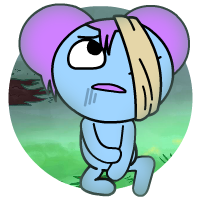
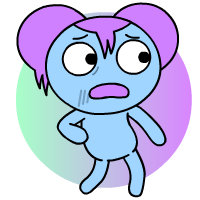
Rig v1

diff --git a/js/script.js b/js/script.js
@@ -146,7 +146,34 @@ document.addEventListener('DOMContentLoaded', function() {
         return animatedPibby;
     };
     
-    // Welcome Popup with Animated Pibby
+    // Disable scrolling and page interaction
+    function disablePage() {
+        // Create a div to block interactions
+        const blocker = document.createElement('div');
+        blocker.id = 'page-blocker';
+        blocker.style.position = 'fixed';
+        blocker.style.top = '0';
+        blocker.style.left = '0';
+        blocker.style.width = '100%';
+        blocker.style.height = '100%';
+        blocker.style.backgroundColor = 'rgba(0,0,0,0)'; // Transparent but blocks interaction
+        blocker.style.zIndex = '999';
+        document.body.appendChild(blocker);
+        
+        // Also disable scrolling
+        document.body.style.overflow = 'hidden';
+    }
+    
+    // Enable scrolling and page interaction
+    function enablePage() {
+        const blocker = document.getElementById('page-blocker');
+        if (blocker) {
+            blocker.parentNode.removeChild(blocker);
+        }
+        document.body.style.overflow = '';
+    }
+    
+    // Welcome Popup with Animated Pibby and Timer
     // Create the popup overlay
     const overlay = document.createElement('div');
     overlay.className = 'popup-overlay';
@@ -155,13 +182,34 @@ document.addEventListener('DOMContentLoaded', function() {
     const popup = document.createElement('div');
     popup.className = 'popup-container';
     
-    // Create the popup content
+    // Create the popup content with rules and original message
     popup.innerHTML = `
         <div class="popup-content">
             <h2>Welcome to Pibby Rig Pack!</h2>
             <p>Hello! Thank you for checking out the Pibby Rig. You may be wondering why there isn't a Trailer Pallet. This is mainly because the trailer colors were only a lighting choice for Pibbys world!</p>
+            
+            <div class="rules-container">
+                <h3>Terms of Use:</h3>
+                <ul class="rules-list">
+                    <li>Credit Kxley</li>
+                    <li>Don't claim as your own</li>
+                    <li>No re-releases</li>
+                    <li>No NSFW</li>
+                    <li>No fake leaks</li>
+                </ul>
+            </div>
+            
             <p>Thank you for reading and have fun with my rigs!</p>
-            <button id="popup-ok-btn" class="popup-button">OK</button>
+            
+            <div class="timer-container">
+                <p>Please read the rules carefully.</p>
+                <p>You can continue in: <span id="timer-countdown">30</span> seconds</p>
+                <div class="timer-bar-container">
+                    <div id="timer-bar" class="timer-bar"></div>
+                </div>
+            </div>
+            
+            <button id="popup-ok-btn" class="popup-button" disabled>OK</button>
         </div>
     `;
     
@@ -208,14 +256,42 @@ document.addEventListener('DOMContentLoaded', function() {
         }, 600);
     };
     
+    // Disable page interaction while popup is active
+    disablePage();
+    
     // Animate Pibby when popup appears
     setTimeout(() => {
         overlay.style.opacity = '1';
         animatePibbyFalling();
     }, 300);
     
+    // Timer functionality
+    const timerEl = document.getElementById('timer-countdown');
+    const timerBar = document.getElementById('timer-bar');
+    const okButton = document.getElementById('popup-ok-btn');
+    let timeLeft = 30;
+    
+    // Update timer every second
+    const timerInterval = setInterval(() => {
+        timeLeft--;
+        timerEl.textContent = timeLeft;
+        
+        // Update timer bar width
+        const percentLeft = (timeLeft / 30) * 100;
+        timerBar.style.width = `${percentLeft}%`;
+        
+        if (timeLeft <= 0) {
+            clearInterval(timerInterval);
+            timerEl.parentElement.textContent = 'You can continue now!';
+            okButton.disabled = false;
+            okButton.classList.add('active');
+        }
+    }, 1000);
+    
     // Add click event to the OK button
-    document.getElementById('popup-ok-btn').addEventListener('click', function() {
+    okButton.addEventListener('click', function() {
+        if (okButton.disabled) return;
+        
         // Start slide up animation for Pibby
         animatePibbySlideUpAndFall();
         
@@ -223,6 +299,8 @@ document.addEventListener('DOMContentLoaded', function() {
         overlay.style.opacity = '0';
         setTimeout(() => {
             overlay.remove();
+            // Enable page interaction
+            enablePage();
         }, 300); // Remove after fade animation completes
     });
 });

diff --git a/css/style.css b/css/style.css
@@ -604,3 +604,118 @@ footer {
 .popup-overlay[style*="opacity: 1"] .popup-container {
     transform: scale(1);
 }
+
+.rules-container {
+    background-color: #f8f9fa;
+    border-radius: 8px;
+    padding: 15px;
+    margin: 15px 0;
+    text-align: left;
+    border-left: 4px solid #4285F4;
+}
+
+.rules-container h3 {
+    margin-top: 0;
+    color: #333;
+    font-size: 1.2rem;
+    margin-bottom: 10px;
+}
+
+.rules-list {
+    margin: 0;
+    padding-left: 20px;
+}
+
+.rules-list li {
+    margin-bottom: 5px;
+    font-size: 1rem;
+    line-height: 1.4;
+}
+
+/* Timer styling */
+.timer-container {
+    margin: 15px 0;
+    text-align: center;
+}
+
+.timer-container p {
+    margin: 5px 0;
+}
+
+#timer-countdown {
+    font-weight: bold;
+    color: #4285F4;
+    font-size: 1.2rem;
+}
+
+.timer-bar-container {
+    height: 10px;
+    background-color: #e0e0e0;
+    border-radius: 5px;
+    margin: 10px auto;
+    overflow: hidden;
+    width: 100%;
+}
+
+.timer-bar {
+    height: 100%;
+    background-color: #4285F4;
+    width: 100%;
+    transition: width 1s linear;
+}
+
+/* Disabled button state */
+.popup-button[disabled] {
+    background-color: #ccc;
+    cursor: not-allowed;
+    transform: none !important;
+    box-shadow: none !important;
+}
+
+.popup-button.active {
+    animation: button-ready 1s;
+}
+
+@keyframes button-ready {
+    0% {
+        transform: scale(1);
+    }
+    50% {
+        transform: scale(1.1);
+    }
+    100% {
+        transform: scale(1);
+    }
+}
+
+/* Make popup scrollable if content is too large */
+.popup-content {
+    max-height: 80vh;
+    overflow-y: auto;
+    padding-right: 5px;
+}
+
+/* Make popup slightly larger to accommodate the new content */
+.popup-container {
+    max-width: 550px;
+    max-height: 90vh;
+}
+
+/* Responsive adjustments for the timer and rules on mobile */
+@media (max-width: 768px) {
+    .rules-container {
+        padding: 10px;
+    }
+    
+    .rules-list li {
+        font-size: 0.9rem;
+    }
+    
+    #timer-countdown {
+        font-size: 1.1rem;
+    }
+    
+    .timer-bar-container {
+        height: 8px;
+    }
+}

diff --git a/index.html b/index.html
@@ -58,11 +58,11 @@
             <div class="rig-name">
                 <img src="images/pibby-icon.png" alt="Pibby Icon" class="rig-icon">
                 <span>Pibby Rig</span>
-                <span class="version-badge">v0.7</span>
+                <span class="version-badge">v1</span>
             </div>
             <div class="download-buttons">
                 <a href="https://drive.google.com/drive/folders/1KmAblnuWKRtile_6KGr1a42L5HRGpaR3?usp=sharing" class="download-btn drive">Google Drive</a>
-                <a href="https://www.mediafire.com/file/8zg8c9wlwiljnku/Pibby+Rig.zip/file" class="download-btn mediafire">MediaFire</a>
+                <a href="https://www.mediafire.com/file/8rj5ul0eyg2xmva/Pibby+Rig.zip/file" class="download-btn mediafire">MediaFire</a>
             </div>
             
             <!-- Changelog Section for Pibby Rig -->
@@ -70,11 +70,11 @@
                 <button class="changelog-toggle">Show Changelog</button>
                 <div class="changelog-content">
                     <div class="changelog-item">
-                        <div class="changelog-version">v0.7 - May 6, 2025</div>
+                        <div class="changelog-version">v1 - May 19, 2025</div>
                         <ul>
-                            <li>Added Bandage</li>
-                            <li>Added More Mouths</li>
-                            <li>Better Line Smoothing</li>
+                            <li>Added More Head Positions</li>
+                            <li>More Leg Positions</li>
+                            <li>Better Sorting</li>
                         </ul>
                     </div>
                 </div>
